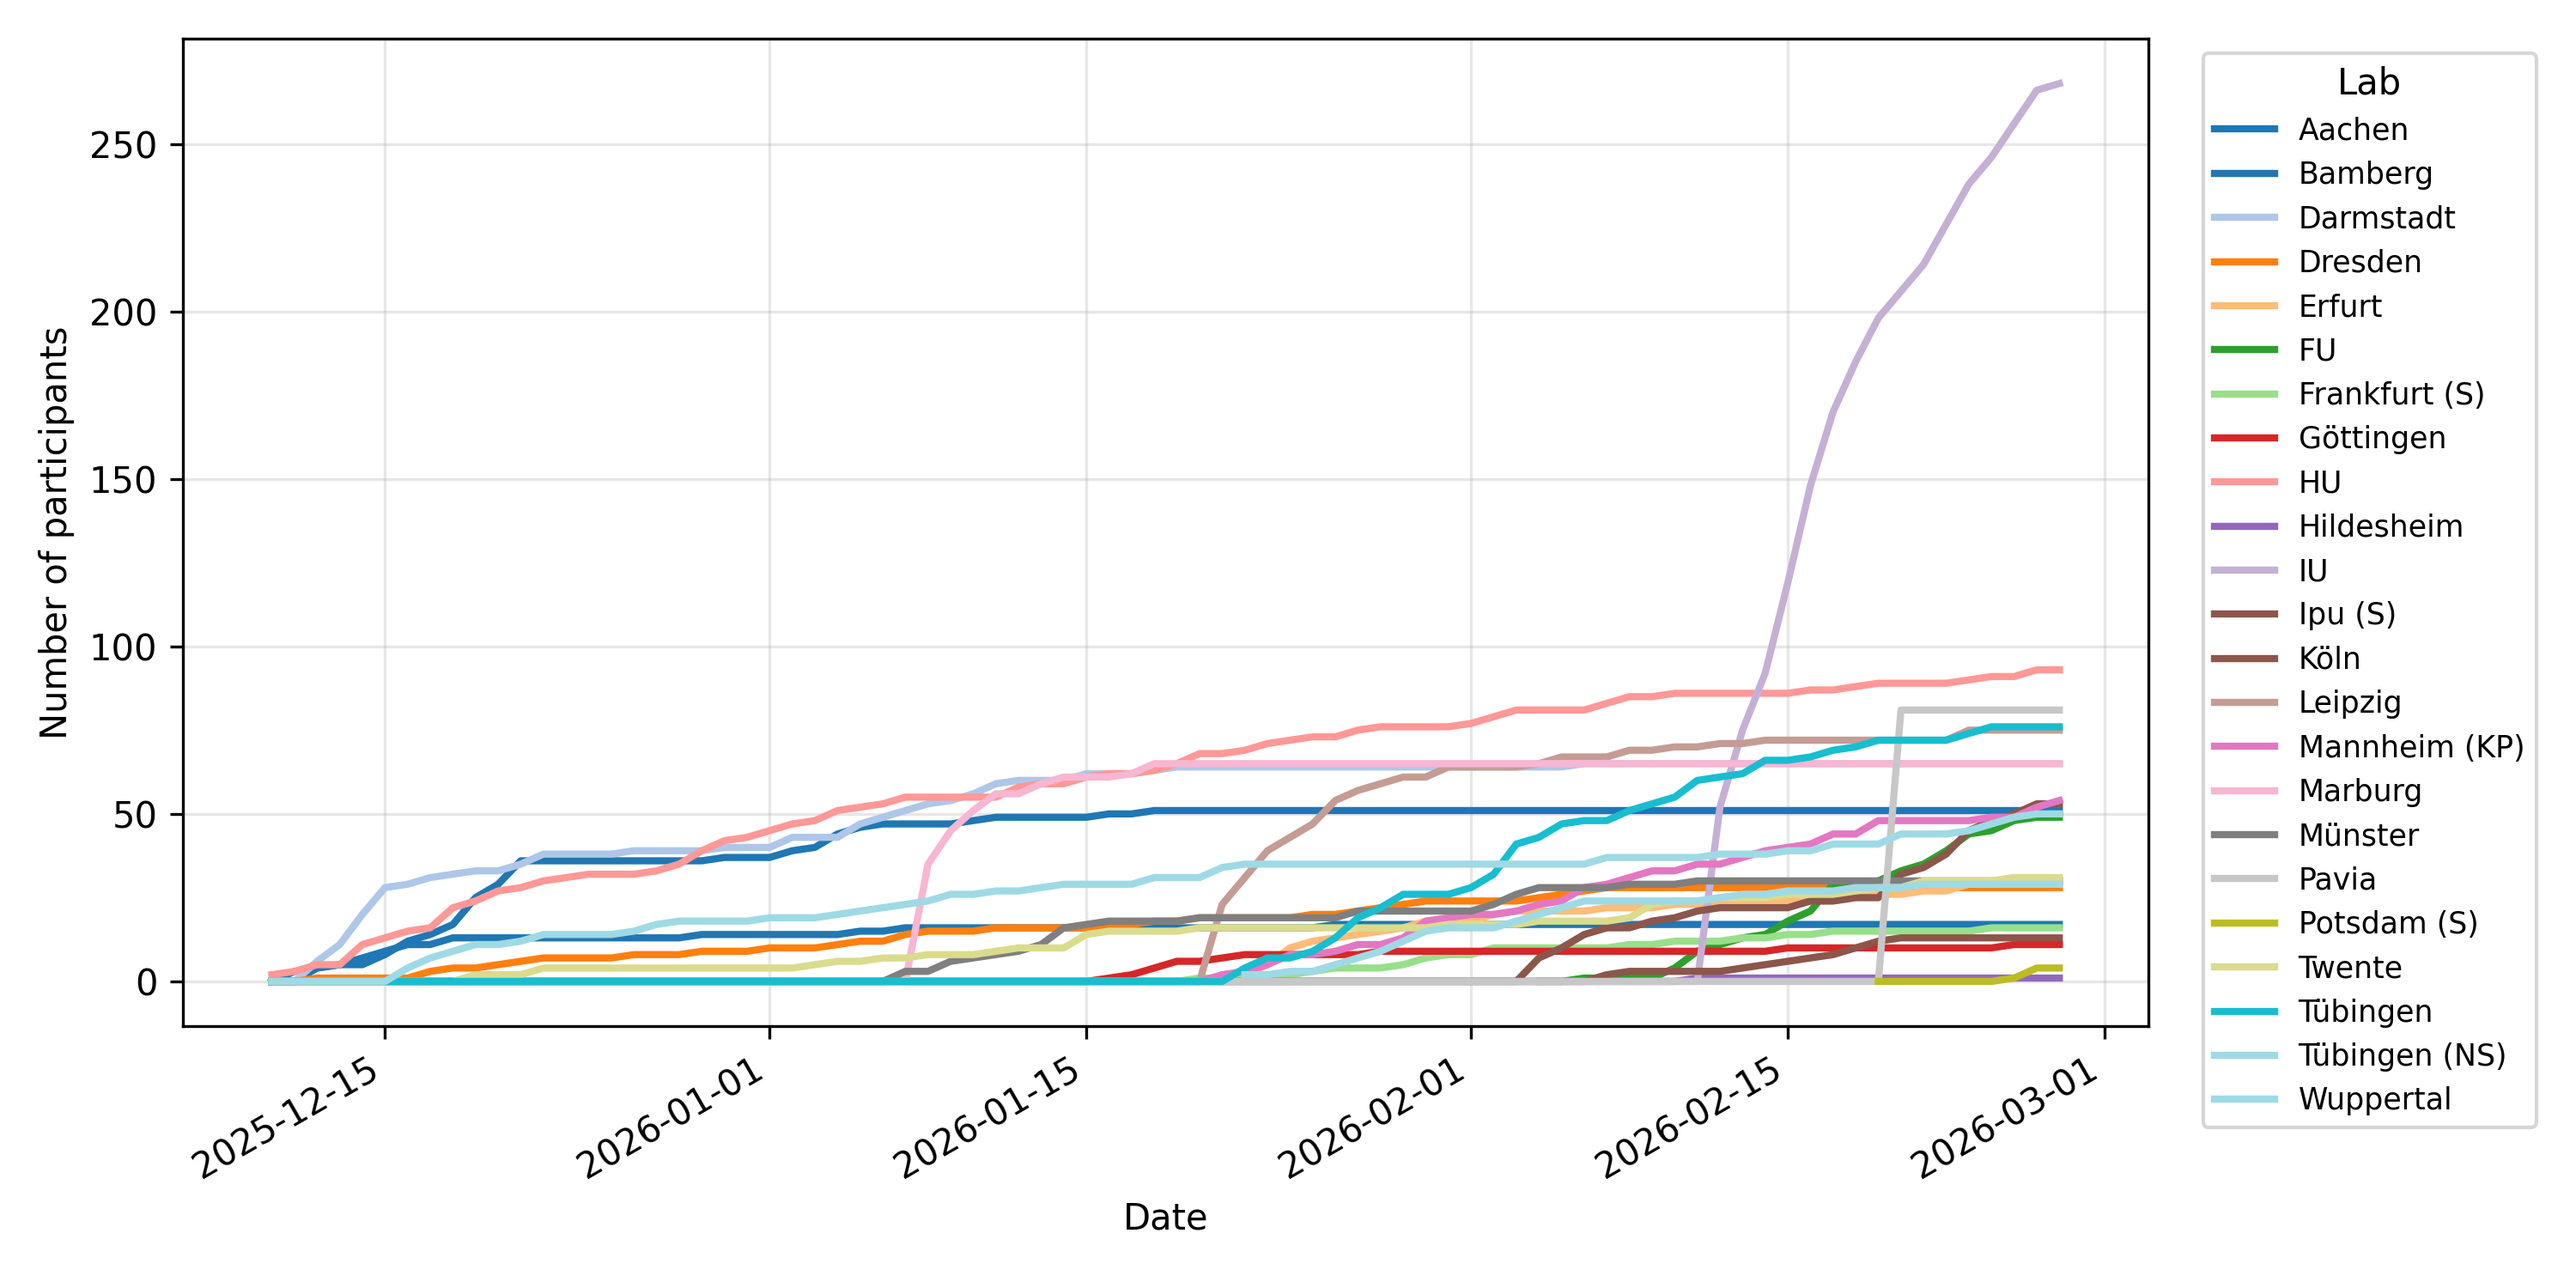
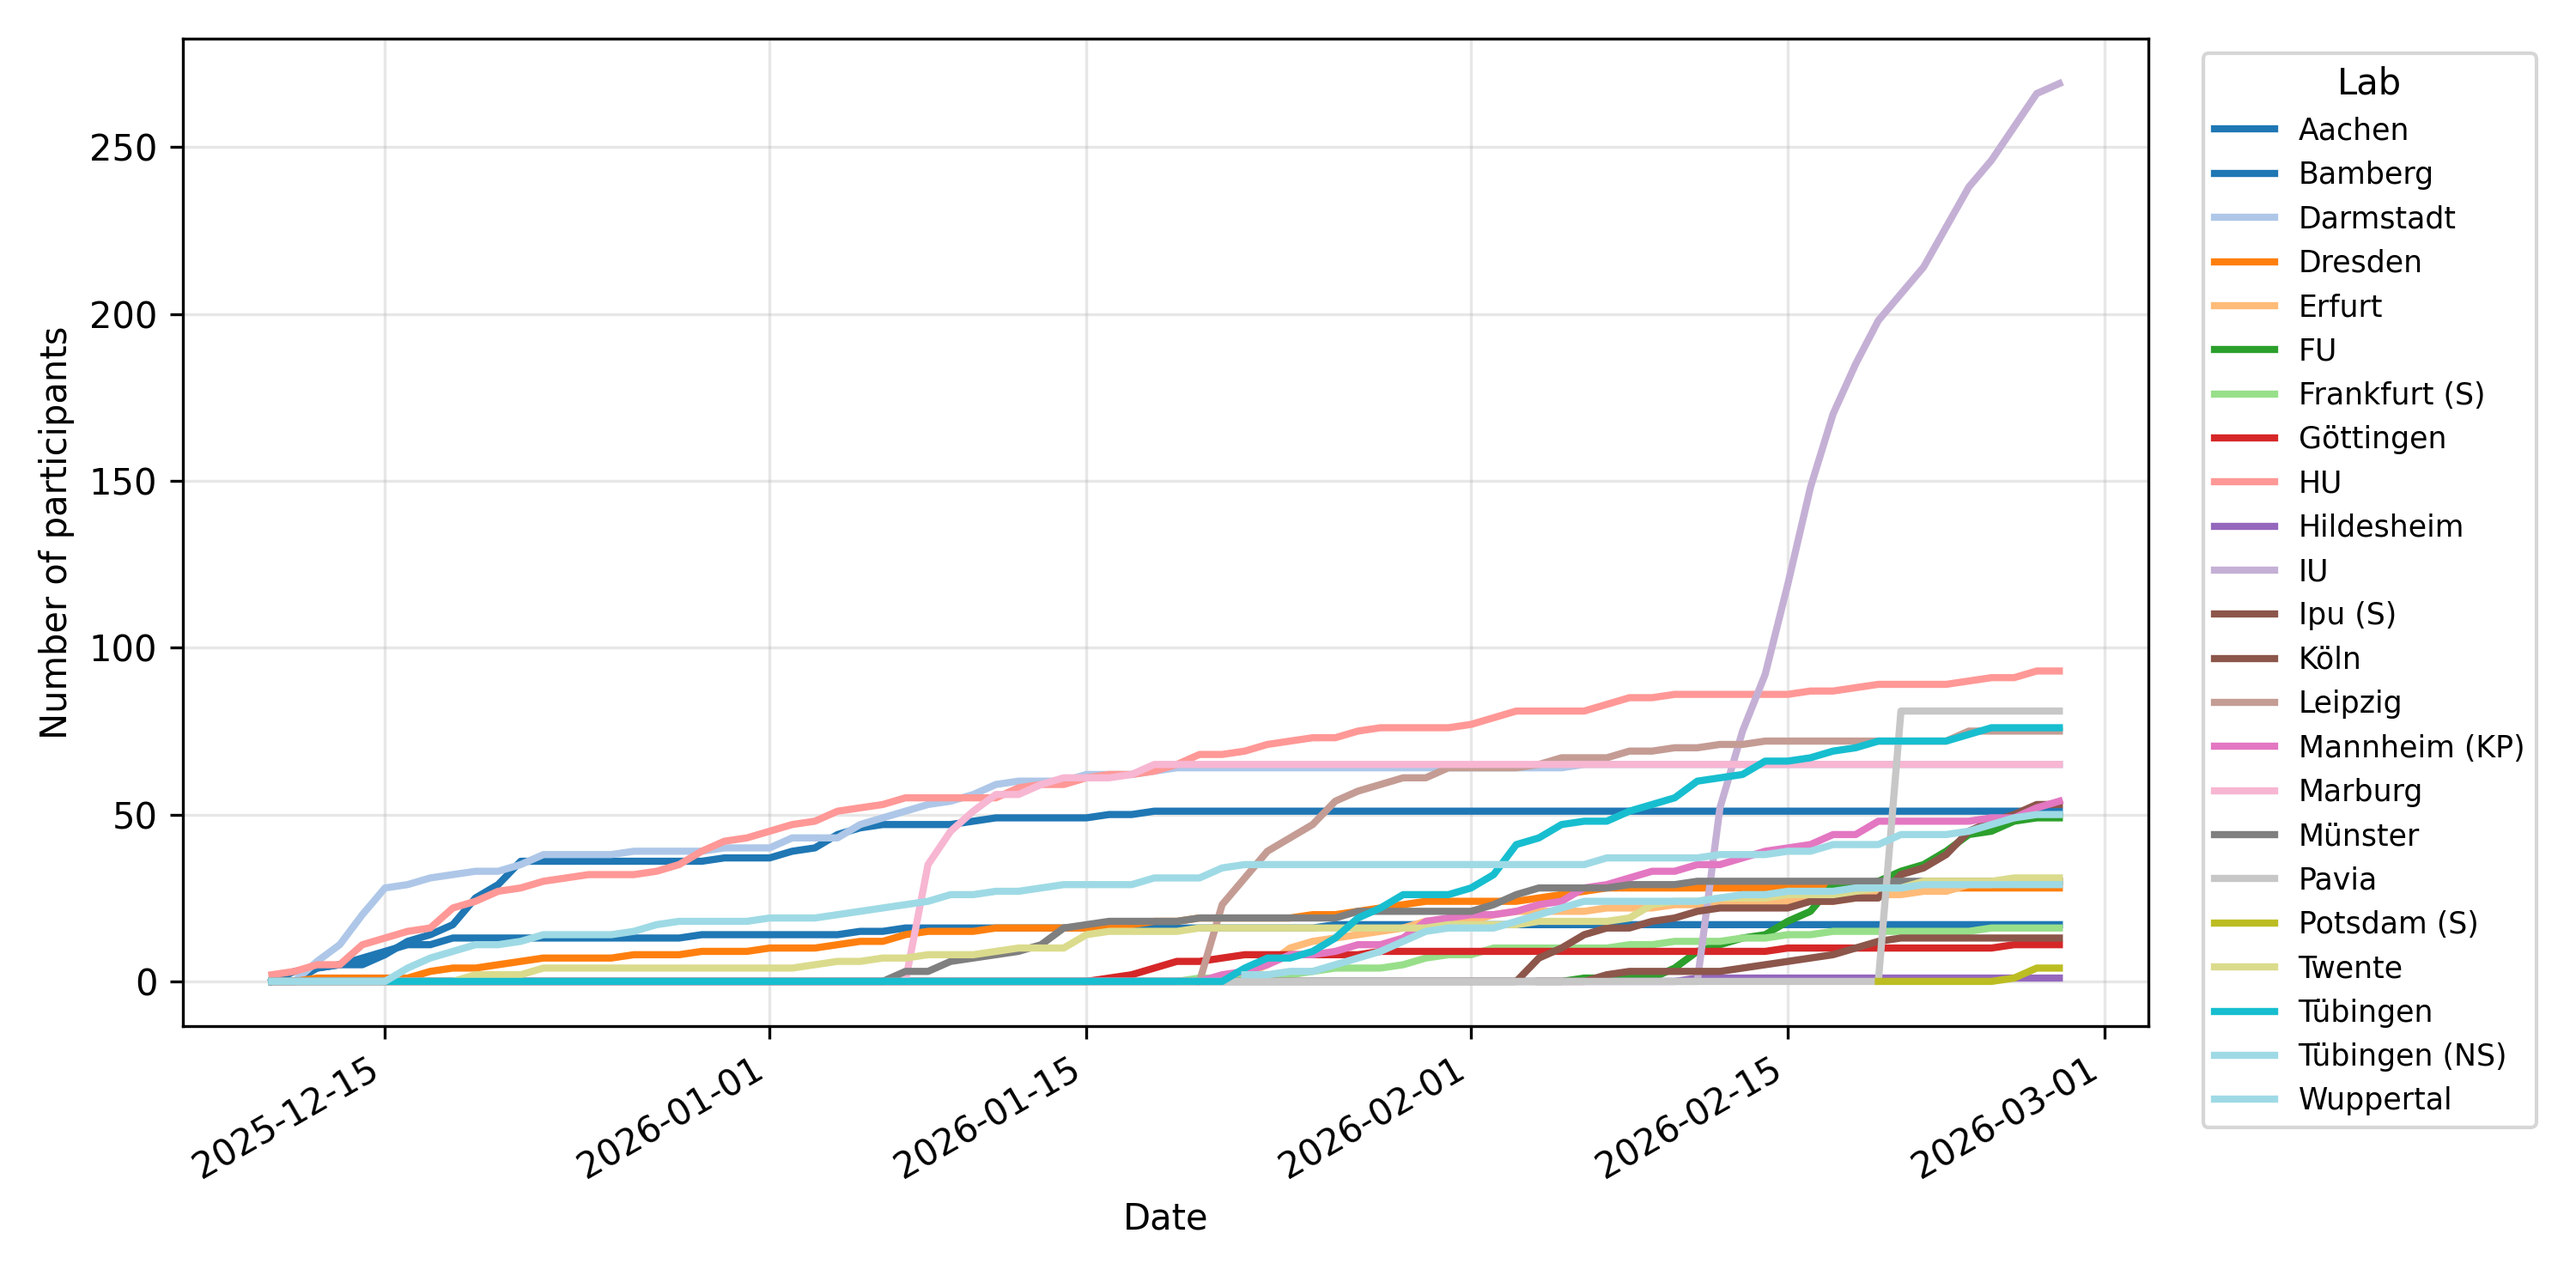
Update demo file counts [skip ci]

diff --git a/README.md b/README.md
@@ -10,17 +10,17 @@ The following output is updated automatically every 10 minutes using GitHub Acti
 
 ### Overall progress
 
-**Total data files saved across all labs:** 1190
+**Total data files saved across all labs:** 1191
 
 **Overall progress (Target: 1440 participants):**
 
-[█████████████████████████░░░░░] 1190 / 1440 (82.6%)
+[█████████████████████████░░░░░] 1191 / 1440 (82.7%)
 
 ### Table: Progress per lab
 
 | Lab | *n* (Participants) | Last update (day) |
 |-----|----------------------|-------------------|
-| IU | 268 | 2026-02-27 |
+| IU | 269 | 2026-02-27 |
 | HU | 93 | 2026-02-26 |
 | Pavia | 81 | 2026-02-20 |
 | Tübingen | 76 | 2026-02-24 |

diff --git a/demo_counts_table.md b/demo_counts_table.md
@@ -1,6 +1,6 @@
 | Lab | *n* (Participants) | Last update (day) |
 |-----|----------------------|-------------------|
-| IU | 268 | 2026-02-27 |
+| IU | 269 | 2026-02-27 |
 | HU | 93 | 2026-02-26 |
 | Pavia | 81 | 2026-02-20 |
 | Tübingen | 76 | 2026-02-24 |
